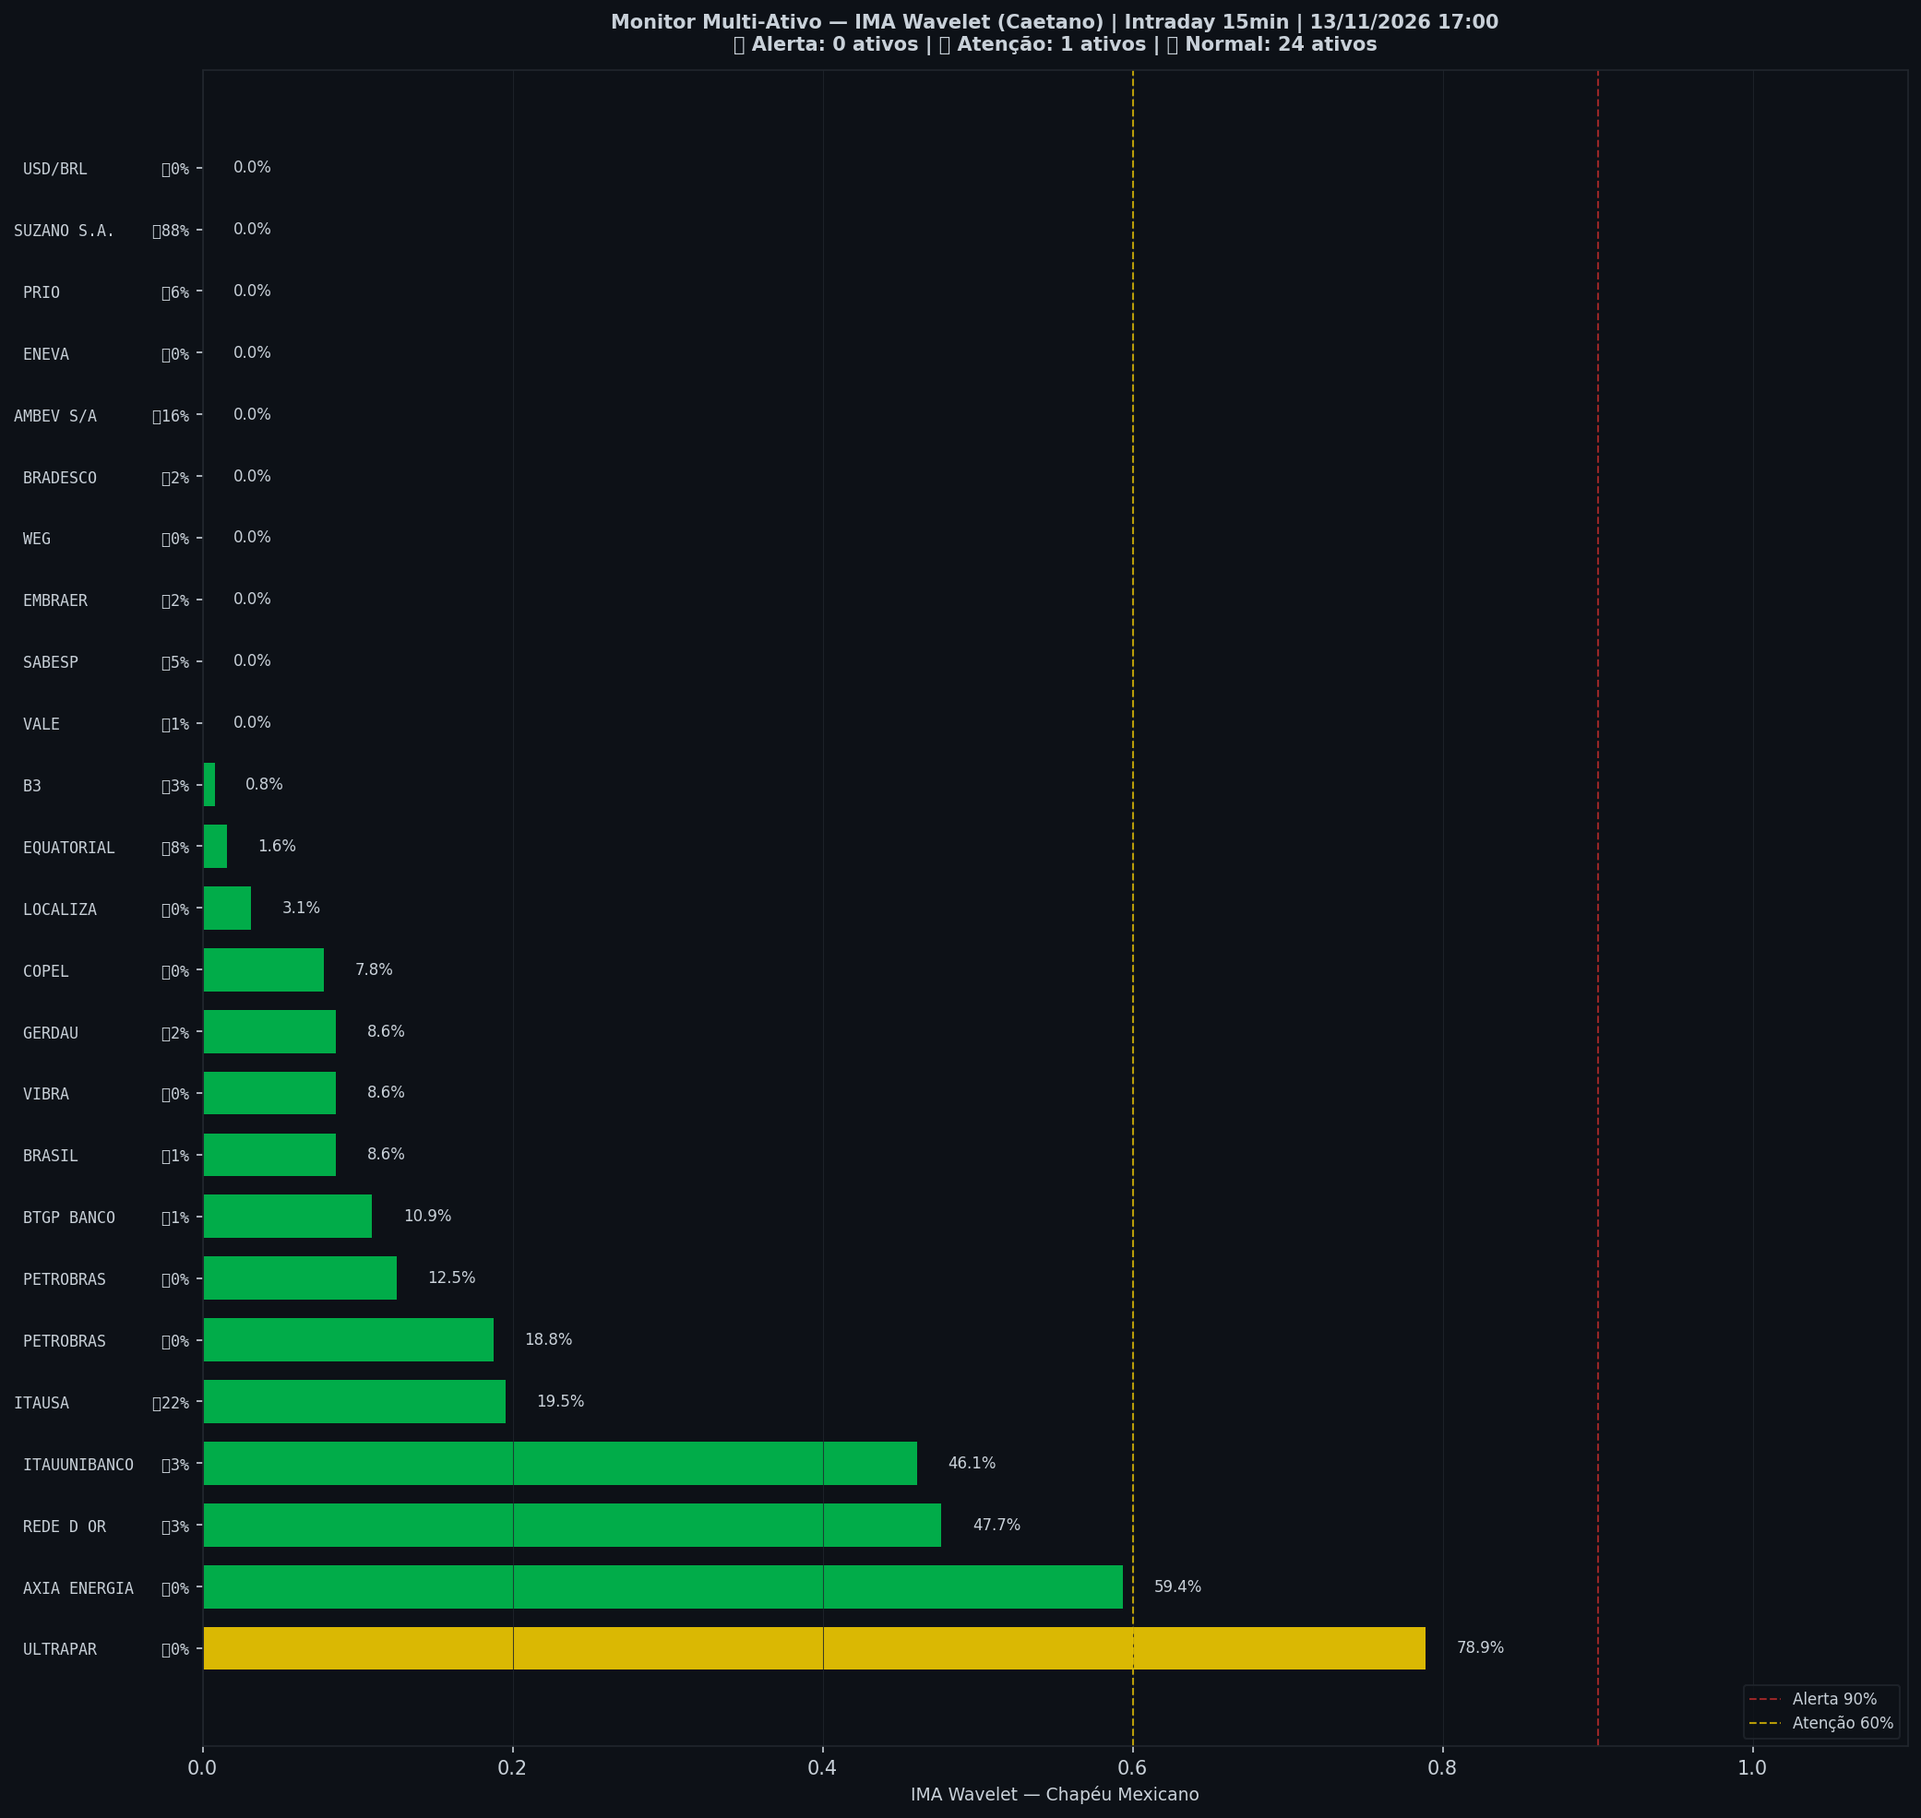
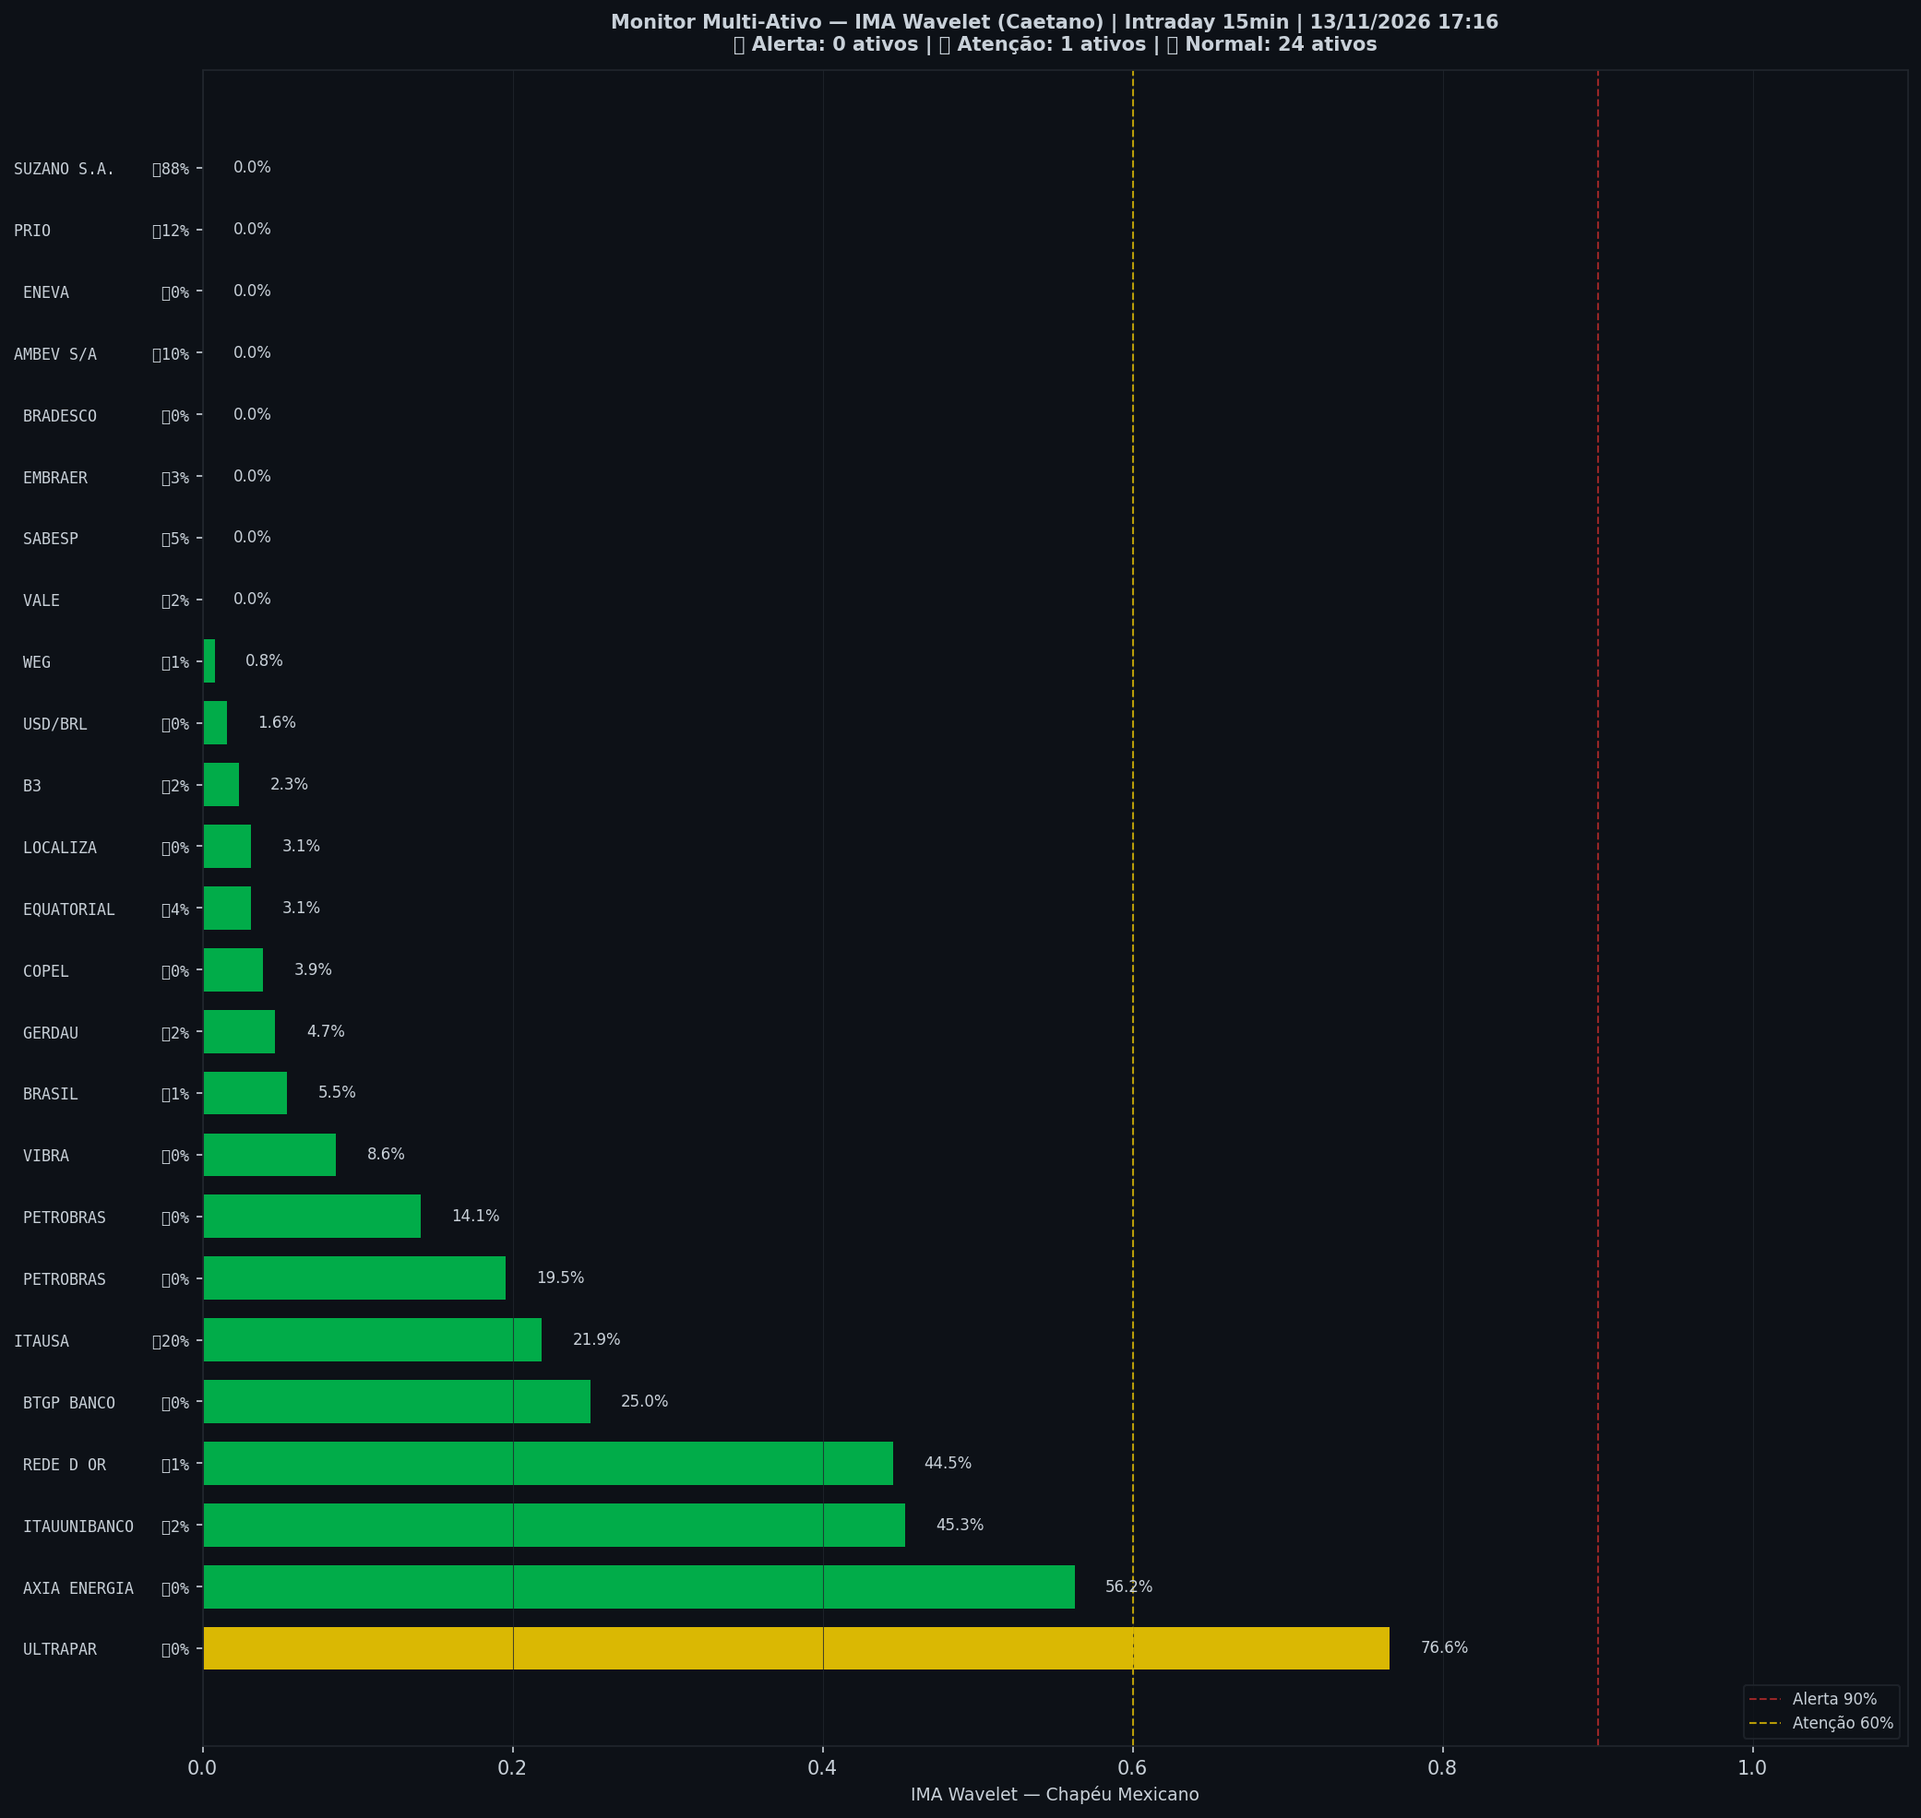
🤖 Auto: Sinal 13/11/2026 17:16

diff --git a/content/intraday/2026-11-13.md b/content/intraday/2026-11-13.md
@@ -1,11 +1,11 @@
 ---
-title: "🟢 Intraday 13/11/2026 16:45 BRT — VERDE"
+title: "🟢 Intraday 13/11/2026 17:00 BRT — VERDE"
 date: 2026-11-13
 tags: [intraday]
 ---
 
-> [!success] Onde o mercado está agora (13/11 16:45, candles de 15 min): **🟢 Calmo**
-> `Pânico ◀─────────●───────────▶ Euforia`
+> [!success] Onde o mercado está agora (13/11 17:00, candles de 15 min): **🟢 Calmo**
+> `Pânico ◀──────────●──────────▶ Euforia`
 >
 > O Ibovespa está dentro da sua faixa normal, sem excesso para cima nem para baixo.
 > No gráfico diário: 🌱 Fundo se desfazendo.
@@ -20,7 +20,7 @@ tags: [intraday]
 > | 📍 **Sinais** | hoje: nenhum sinal | [abrir](sinais-topo-fundo/) |
 > | 🧪 **Placar ao vivo** | 1 operação(ões), 0 com lucro, soma -0,8% | [abrir](operacoes/) |
 
-> [!success] IMA Intraday · 15 min (13/11 16:45): 🟢 **VERDE** — Risco 0% · ＝ +0 p.p. vs leitura anterior
+> [!success] IMA Intraday · 15 min (13/11 17:00): 🟢 **VERDE** — Risco 0% · ＝ +0 p.p. vs leitura anterior
 > `░░░░░░░░░░░░░░░░░░░░`
 > Preço na faixa normal em torno da tendência.
 
@@ -32,13 +32,13 @@ tags: [intraday]
 >
 > *Leitura educacional baseada em 26 anos de dados, não recomendação. [Como usar](../metodologia/crise#3-como-usar-na-prática).*
 
-| Indicador — IMA Intraday · 15 min (13/11 16:45) | Valor |
+| Indicador — IMA Intraday · 15 min (13/11 17:00) | Valor |
 |---|---|
 | 🔴 ζ Topo — preço esticado acima da tendência | **0%** |
-| 🔵 ζ Fundo — preço esticado abaixo da tendência | 14% |
+| 🔵 ζ Fundo — preço esticado abaixo da tendência | 1% |
 | 🫧 LPPL bolha — alta super-exponencial (risco de crash) | 0% |
 | 🫧 LPPL antibolha — queda super-exponencial (risco de repique) | 0% |
-| 📊 Ibovespa | 172.294 pts |
+| 📊 Ibovespa | 172.452 pts |
 
 ![Gráfico do sinal](../graficos/sinal_intraday.png)
 
@@ -46,6 +46,7 @@ tags: [intraday]
 
 | Data | Zona | Evento | Risco | ζ Topo | ζ Fundo | LPPL |
 |---|---|---|---|---|---|---|
+| 2026-11-13 17:00 | 🟢 VERDE |  | **0%** | 0% | 1% | 0% |
 | 2026-11-13 16:45 | 🟢 VERDE |  | **0%** | 0% | 14% | 0% |
 | 2026-11-13 16:30 | 🟢 VERDE |  | **0%** | 0% | 14% | 0% |
 | 2026-11-13 16:15 | 🟢 VERDE |  | **1%** | 1% | 12% | 0% |
@@ -75,50 +76,49 @@ tags: [intraday]
 | 2026-11-13 10:15 | 🟢 VERDE |  | **0%** | 0% | 🔵 **62%** | 0% |
 | 2026-11-13 10:00 | 🟢 VERDE |  | **0%** | 0% | 30% | 0% |
 | 2026-11-12 18:00 | 🟢 VERDE |  | **0%** | 0% | 🔵 **80%** | 0% |
-| 2026-11-12 17:45 | 🟢 VERDE |  | **0%** | 0% | 🔵 **84%** | 0% |
 
 <small>Destaques: 🟡 ≥ 60% · 🔴 ≥ 90% (Risco e ζ Topo) · 🔵 ≥ 60% · 🔪 ≥ 90% (ζ Fundo) · 🫧 ≥ 30% · 🫧🔴 ≥ 50% (LPPL)</small>
 
 ## Monitor Multi-Ativo
 
-**4% dos ativos em tensão** (1🔴 3🟡) · **1 com ζ Fundo alto** — quanto mais ativos disparam juntos, mais confiável o sinal.
+**4% dos ativos em tensão** (1🔴 2🟡) · **1 com ζ Fundo alto** — quanto mais ativos disparam juntos, mais confiável o sinal.
 
 > [!warning] Em destaque no multi-ativo
-> 🔵 **SUZANO S.A.** ζ Fundo 88% · 🟡 **ULTRAPAR** ζ Topo 79%
+> 🔵 **SUZANO S.A.** ζ Fundo 88% · 🟡 **ULTRAPAR** ζ Topo 77%
 
 | Zona | Ativo | Setor | ζ Topo | ζ Fundo |
 |---|---|---|---|---|
 | 🟢 | **SUZANO S.A.** | Papel/Celulose | 0.0% | 🔵 **88.3%** |
-| 🔴 | **ULTRAPAR** | Outros | 🟡 **78.9%** | 0.0% |
-| 🟡 | **AXIA ENERGIA** | Energia | 59.4% | 0.0% |
-| 🟡 | **REDE D OR** | Saúde | 47.7% | 3.1% |
-| 🟡 | **ITAUUNIBANCO** | Financeiro | 46.1% | 3.1% |
-| 🟢 | **ITAUSA** | Financeiro | 19.5% | 21.9% |
-| 🟢 | **PETROBRAS** | Petróleo | 18.8% | 0.0% |
-| 🟢 | **AMBEV S/A** | Consumo | 0.0% | 16.4% |
-| 🟢 | **PETROBRAS** | Petróleo | 12.5% | 0.0% |
-| 🟢 | **BTGP BANCO** | Financeiro | 10.9% | 0.8% |
-| 🟢 | **BRASIL** | Financeiro | 8.6% | 0.8% |
+| 🔴 | **ULTRAPAR** | Outros | 🟡 **76.6%** | 0.0% |
+| 🟡 | **AXIA ENERGIA** | Energia | 56.2% | 0.0% |
+| 🟡 | **ITAUUNIBANCO** | Financeiro | 45.3% | 1.6% |
+| 🟢 | **REDE D OR** | Saúde | 44.5% | 0.8% |
+| 🟢 | **BTGP BANCO** | Financeiro | 25.0% | 0.0% |
+| 🟢 | **ITAUSA** | Financeiro | 21.9% | 19.5% |
+| 🟢 | **PETROBRAS** | Petróleo | 19.5% | 0.0% |
+| 🟢 | **PETROBRAS** | Petróleo | 14.1% | 0.0% |
+| 🟢 | **PRIO** | Petróleo | 0.0% | 11.7% |
+| 🟢 | **AMBEV S/A** | Consumo | 0.0% | 10.2% |
 | 🟢 | **VIBRA** | Energia | 8.6% | 0.0% |
-| 🟢 | **GERDAU** | Siderurgia | 8.6% | 1.6% |
-| 🟢 | **COPEL** | Energia | 7.8% | 0.0% |
-| 🟢 | **EQUATORIAL** | Energia | 1.6% | 7.8% |
-| 🟢 | **PRIO** | Petróleo | 0.0% | 6.2% |
 | 🟢 | **SABESP** | Saneamento | 0.0% | 5.5% |
-| 🟢 | **B3** | Financeiro | 0.8% | 3.1% |
+| 🟢 | **BRASIL** | Financeiro | 5.5% | 0.8% |
+| 🟢 | **GERDAU** | Siderurgia | 4.7% | 2.3% |
+| 🟢 | **COPEL** | Energia | 3.9% | 0.0% |
+| 🟢 | **EQUATORIAL** | Energia | 3.1% | 3.9% |
+| 🟢 | **EMBRAER** | Outros | 0.0% | 3.1% |
 | 🟢 | **LOCALIZA** | Aluguel | 3.1% | 0.0% |
-| 🟢 | **BRADESCO** | Financeiro | 0.0% | 2.3% |
-| 🟢 | **EMBRAER** | Outros | 0.0% | 1.6% |
-| 🟢 | **VALE** | Mineração | 0.0% | 0.8% |
-| 🟢 | **WEG** | Industrial | 0.0% | 0.0% |
+| 🟢 | **B3** | Financeiro | 2.3% | 1.6% |
+| 🟢 | **VALE** | Mineração | 0.0% | 1.6% |
+| 🟢 | **USD/BRL** | Câmbio | 1.6% | 0.0% |
+| 🟢 | **WEG** | Industrial | 0.8% | 0.8% |
+| 🟢 | **BRADESCO** | Financeiro | 0.0% | 0.0% |
 | 🟢 | **ENEVA** | Energia | 0.0% | 0.0% |
-| 🟢 | **USD/BRL** | Câmbio | 0.0% | 0.0% |
 
 <small>Destaques: 🟡 ≥ 60% · 🔴 ≥ 90% (Risco e ζ Topo) · 🔵 ≥ 60% · 🔪 ≥ 90% (ζ Fundo) · 🫧 ≥ 30% · 🫧🔴 ≥ 50% (LPPL)</small>
 
 ![Monitor multi-ativo](../graficos/multi_intraday.png)
 
-*Página atualizada em 13/11/2026 17:00 BRT (leitura da barra de 2026-11-13 16:45 BRT).*
+*Página atualizada em 13/11/2026 17:16 BRT (leitura da barra de 2026-11-13 17:00 BRT).*
 
 > [!warning] O que este indicador não faz
 > Medido em 5 anos de Ibovespa, o ζ **não antecipa** topos nem fundos: a capacidade de separar o que sobe do que cai ficou em 0,49–0,52, e 0,50 é moeda jogada ao ar. Ele descreve o estado de agora; não é aviso do que vem. As zonas verde/amarelo/vermelho continuam na página como descrição desse estado — **não as use como sinal de entrada ou saída**.

diff --git a/content/index.md b/content/index.md
@@ -6,10 +6,10 @@ tags: [home]
 
 **As ondas do mercado, explicadas.** Leitura do Ibovespa com estatística de 26 anos, baseada no trabalho de pesquisadores e traders reconhecidos e adaptada por Jarbas Daniel da Costa.
 
-*Última atualização: 13/11/2026 17:00 BRT · Intraday 15min*
+*Última atualização: 13/11/2026 17:16 BRT · Intraday 15min*
 
-> [!success] Onde o mercado está agora (13/11 16:45, candles de 15 min): **🟢 Calmo**
-> `Pânico ◀─────────●───────────▶ Euforia`
+> [!success] Onde o mercado está agora (13/11 17:00, candles de 15 min): **🟢 Calmo**
+> `Pânico ◀──────────●──────────▶ Euforia`
 >
 > O Ibovespa está dentro da sua faixa normal, sem excesso para cima nem para baixo.
 > No gráfico diário: 🌱 Fundo se desfazendo.
@@ -44,26 +44,26 @@ tags: [home]
 > *Leitura educacional baseada em 26 anos de dados, não recomendação. [Como usar](metodologia/crise#3-como-usar-na-prática).*
 
 > [!info]- 🌊 Detalhes do Sinal IMA (indicadores e últimos 7 pregões)
-> > [!success] IMA Intraday · 15 min (13/11 16:45): 🟢 **VERDE** — Risco 0% · ＝ +0 p.p. vs leitura anterior
+> > [!success] IMA Intraday · 15 min (13/11 17:00): 🟢 **VERDE** — Risco 0% · ＝ +0 p.p. vs leitura anterior
 > > `░░░░░░░░░░░░░░░░░░░░`
 > > Preço na faixa normal em torno da tendência.
 >
 >
-> | Indicador — IMA Intraday · 15 min (13/11 16:45) | Valor |
+> | Indicador — IMA Intraday · 15 min (13/11 17:00) | Valor |
 > |---|---|
 > | 🔴 ζ Topo — preço esticado acima da tendência | **0%** |
-> | 🔵 ζ Fundo — preço esticado abaixo da tendência | 14% |
+> | 🔵 ζ Fundo — preço esticado abaixo da tendência | 1% |
 > | 🫧 LPPL bolha — alta super-exponencial (risco de crash) | 0% |
 > | 🫧 LPPL antibolha — queda super-exponencial (risco de repique) | 0% |
-> | 📊 Ibovespa | 172.294 pts |
+> | 📊 Ibovespa | 172.452 pts |
 >
-> **Multi-ativo:** 4% em tensão (1🔴 3🟡 de 25 ativos)
+> **Multi-ativo:** 4% em tensão (1🔴 2🟡 de 25 ativos)
 >
 > **Últimos 7 pregões**
 >
 > | Data | Zona | Risco | ζ Topo | ζ Fundo | LPPL |
 > |---|---|---|---|---|---|
-> | [13/11/2026](intraday/2026-11-13) | 🟢 VERDE | **0%** | 0% | 14% | 0% |
+> | [13/11/2026](intraday/2026-11-13) | 🟢 VERDE | **0%** | 0% | 1% | 0% |
 > | [12/11/2026](intraday/2026-11-12) | 🟢 VERDE | **0%** | 0% | 🔵 **80%** | 0% |
 >
 > <small>Destaques: 🟡 ≥ 60% · 🔴 ≥ 90% (Risco e ζ Topo) · 🔵 ≥ 60% · 🔪 ≥ 90% (ζ Fundo) · 🫧 ≥ 30% · 🫧🔴 ≥ 50% (LPPL)</small>

diff --git a/content/operacoes/entradas.md b/content/operacoes/entradas.md
@@ -31,7 +31,7 @@ description: "Compra depois de um sinal de fundo: Nadaraya no diário, semáforo
 > | Diário · Semáforo N3 após ζ Fundo | 07/07/26 a 172.021 | 10/08/26 a 172.021 | **+0,0%** | stop no preço de entrada |
 > | H4 · Semáforo N2 | 12/06/26 14h a 171.134 | 15/06/26 14h a 171.134 | **+0,0%** | stop no preço de entrada |
 >
-> <small>Atualizado 12/11 19:01 · checado no pregão às 17:00. Nota: ✅ passou no teste fora da amostra (walk-forward 2008–2026) · 🧪 em teste (H4, com aviso no Telegram) ou em observação (ζ, sem aviso) · 🧪 na tabela = operação do teste ao vivo.</small>
+> <small>Atualizado 12/11 19:01 · checado no pregão às 17:15. Nota: ✅ passou no teste fora da amostra (walk-forward 2008–2026) · 🧪 em teste (H4, com aviso no Telegram) ou em observação (ζ, sem aviso) · 🧪 na tabela = operação do teste ao vivo.</small>
 >
 > *Regras: depois de um sinal de fundo, o Diário entra quando o Nadaraya vira para cima; o Semanal e o H4 entram quando um fundo do semáforo fica fixo. Stop e saída de cada regra na [metodologia](metodologia/regras-de-operacao#entradas-do-método). Nenhuma regra de venda passou no teste. Os números do histórico têm viés de escolha (overfitting); o placar ao vivo é o que vale. Leitura educacional do método, não recomendação.*
 

diff --git a/content/historico.md b/content/historico.md
@@ -5,7 +5,7 @@ tags: [historico]
 
 # 📜 Histórico de leituras (v5)
 
-**2.374 leituras** desde 2026-07-03. Na página ficam os últimos 3 dias leitura por leitura e o resumo de cada dia anterior; o registro inteiro está no arquivo para baixar.
+**2.375 leituras** desde 2026-07-03. Na página ficam os últimos 3 dias leitura por leitura e o resumo de cada dia anterior; o registro inteiro está no arquivo para baixar.
 
 [**Baixar o histórico completo**](historico-completo.csv) (104 KB · abre no Excel e no LibreOffice)
 
@@ -16,6 +16,7 @@ tags: [historico]
 
 | Data | Modo | Zona | Risco | IMA | LPPL |
 |---|---|---|---|---|---|
+| 2026-11-13 17:00 | intraday | 🟢 VERDE | 0% | 0% | 0% |
 | 2026-11-13 16:45 | intraday | 🟢 VERDE | 0% | 0% | 0% |
 | 2026-11-13 16:30 | intraday | 🟢 VERDE | 0% | 0% | 0% |
 | 2026-11-13 16:15 | intraday | 🟢 VERDE | 1% | 1% | 0% |

diff --git a/content/operacoes/ranking.md b/content/operacoes/ranking.md
@@ -5,7 +5,7 @@ tags: [operacoes]
 description: "As regras de compra do site ordenadas pelo resultado, com treino, teste e placar ao vivo"
 ---
 
-*Atualizado 13/11/2026 17:00 · histórico simulado com as regras congeladas em 23/10/2026 + placar ao vivo.*
+*Atualizado 13/11/2026 17:16 · histórico simulado com as regras congeladas em 23/10/2026 + placar ao vivo.*
 
 As regras de compra do site, **da que mais rendeu para a que menos rendeu**. O resultado é por operação, no índice à vista, sem custos e sem juros compostos (a soma é só a soma das operações). **Treino** = entradas de 2001 a 2013 e **teste** = 2014 em diante: uma regra só é confiável se ganhou nos dois. O único resultado sem nenhum ajuste ao histórico é o **placar ao vivo**.
 

diff --git a/content/linha-do-tempo/index.md b/content/linha-do-tempo/index.md
@@ -5,7 +5,7 @@ description: "Todo sinal, ordem, stop e aviso do Pêndulo de Mercado, do mais re
 tags: [eventos]
 ---
 
-*Atualizada 13/11/2026 17:00 BRT · a cada 15 min no pregão e às 19h.*
+*Atualizada 13/11/2026 17:16 BRT · a cada 15 min no pregão e às 19h.*
 
 Tudo o que o sistema fez ou detectou, **do mais recente para o mais antigo**: sinais de topo e fundo, ordens de compra e de venda armadas, compras, vendas, stops, avisos de 🚨 preço perto do nível e mudanças do Sinal IMA. Os **últimos 7 dias** ficam abertos; o resto, por **ano → mês → dia**.
 
